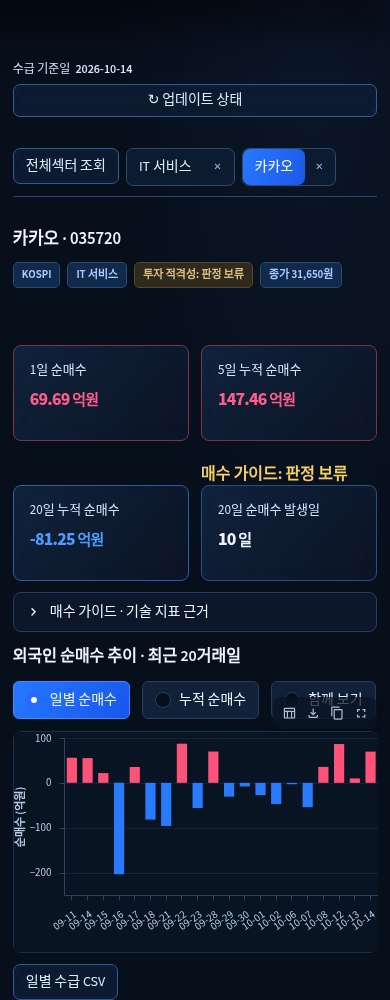
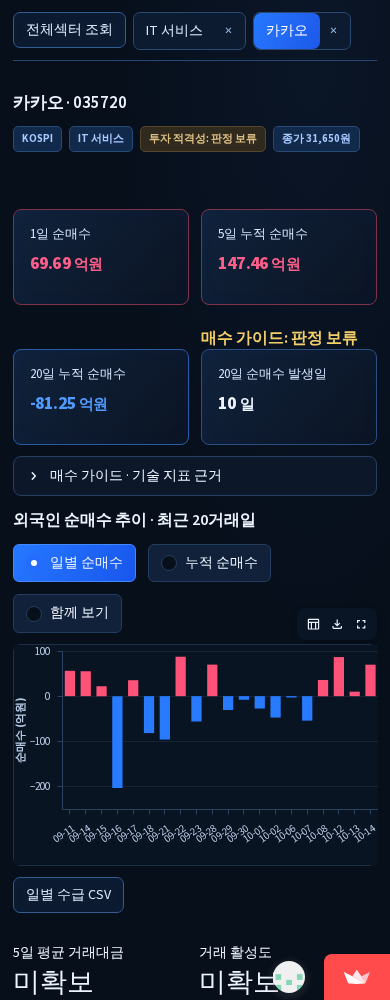
Record final public guideline and journal deployment verification

diff --git a/reports/trading-guidelines/README.md b/reports/trading-guidelines/README.md
@@ -37,6 +37,9 @@
 
 ## 검증
 
+- [최종 배포·134개 테스트 통과](https://github.com/0baselabkim-debug/qweasd/actions/runs/38712880046)
+- [공개 웹 실제 조작 통과](https://github.com/0baselabkim-debug/qweasd/actions/runs/38712880616) · [검증 JSON](public-browser.json)
+
 - 기존110개 + 기술·매매일지24개 = **134개 자동 테스트**. 기존 데이터·수급·재무·테마 및 주요 수집 워크플로 해시 일치: [실제 검증 자료](actual-data.json).
 - 실제 데이터 기반 로컬 브라우저1920/1440/768/390px: 매크로, 섹터·종목 더블클릭, 탭·정렬·CSV, 금색 가이드 위치, 미로그인 매매일지 저장 차단 확인.
 - 별도 **가상 저장소** 브라우저: 추가·부분 검색·저장실패 후 팝업 유지·재시도·취소·수정·삭제·복수 매수·로그아웃·다른 테스트 사용자 표시 분리·모바일 팝업 확인. [테스트 기록](journal-synthetic-browser.json). 이는 실제 Supabase 인증/RLS/영구 저장 검증을 대신하지 않음.
